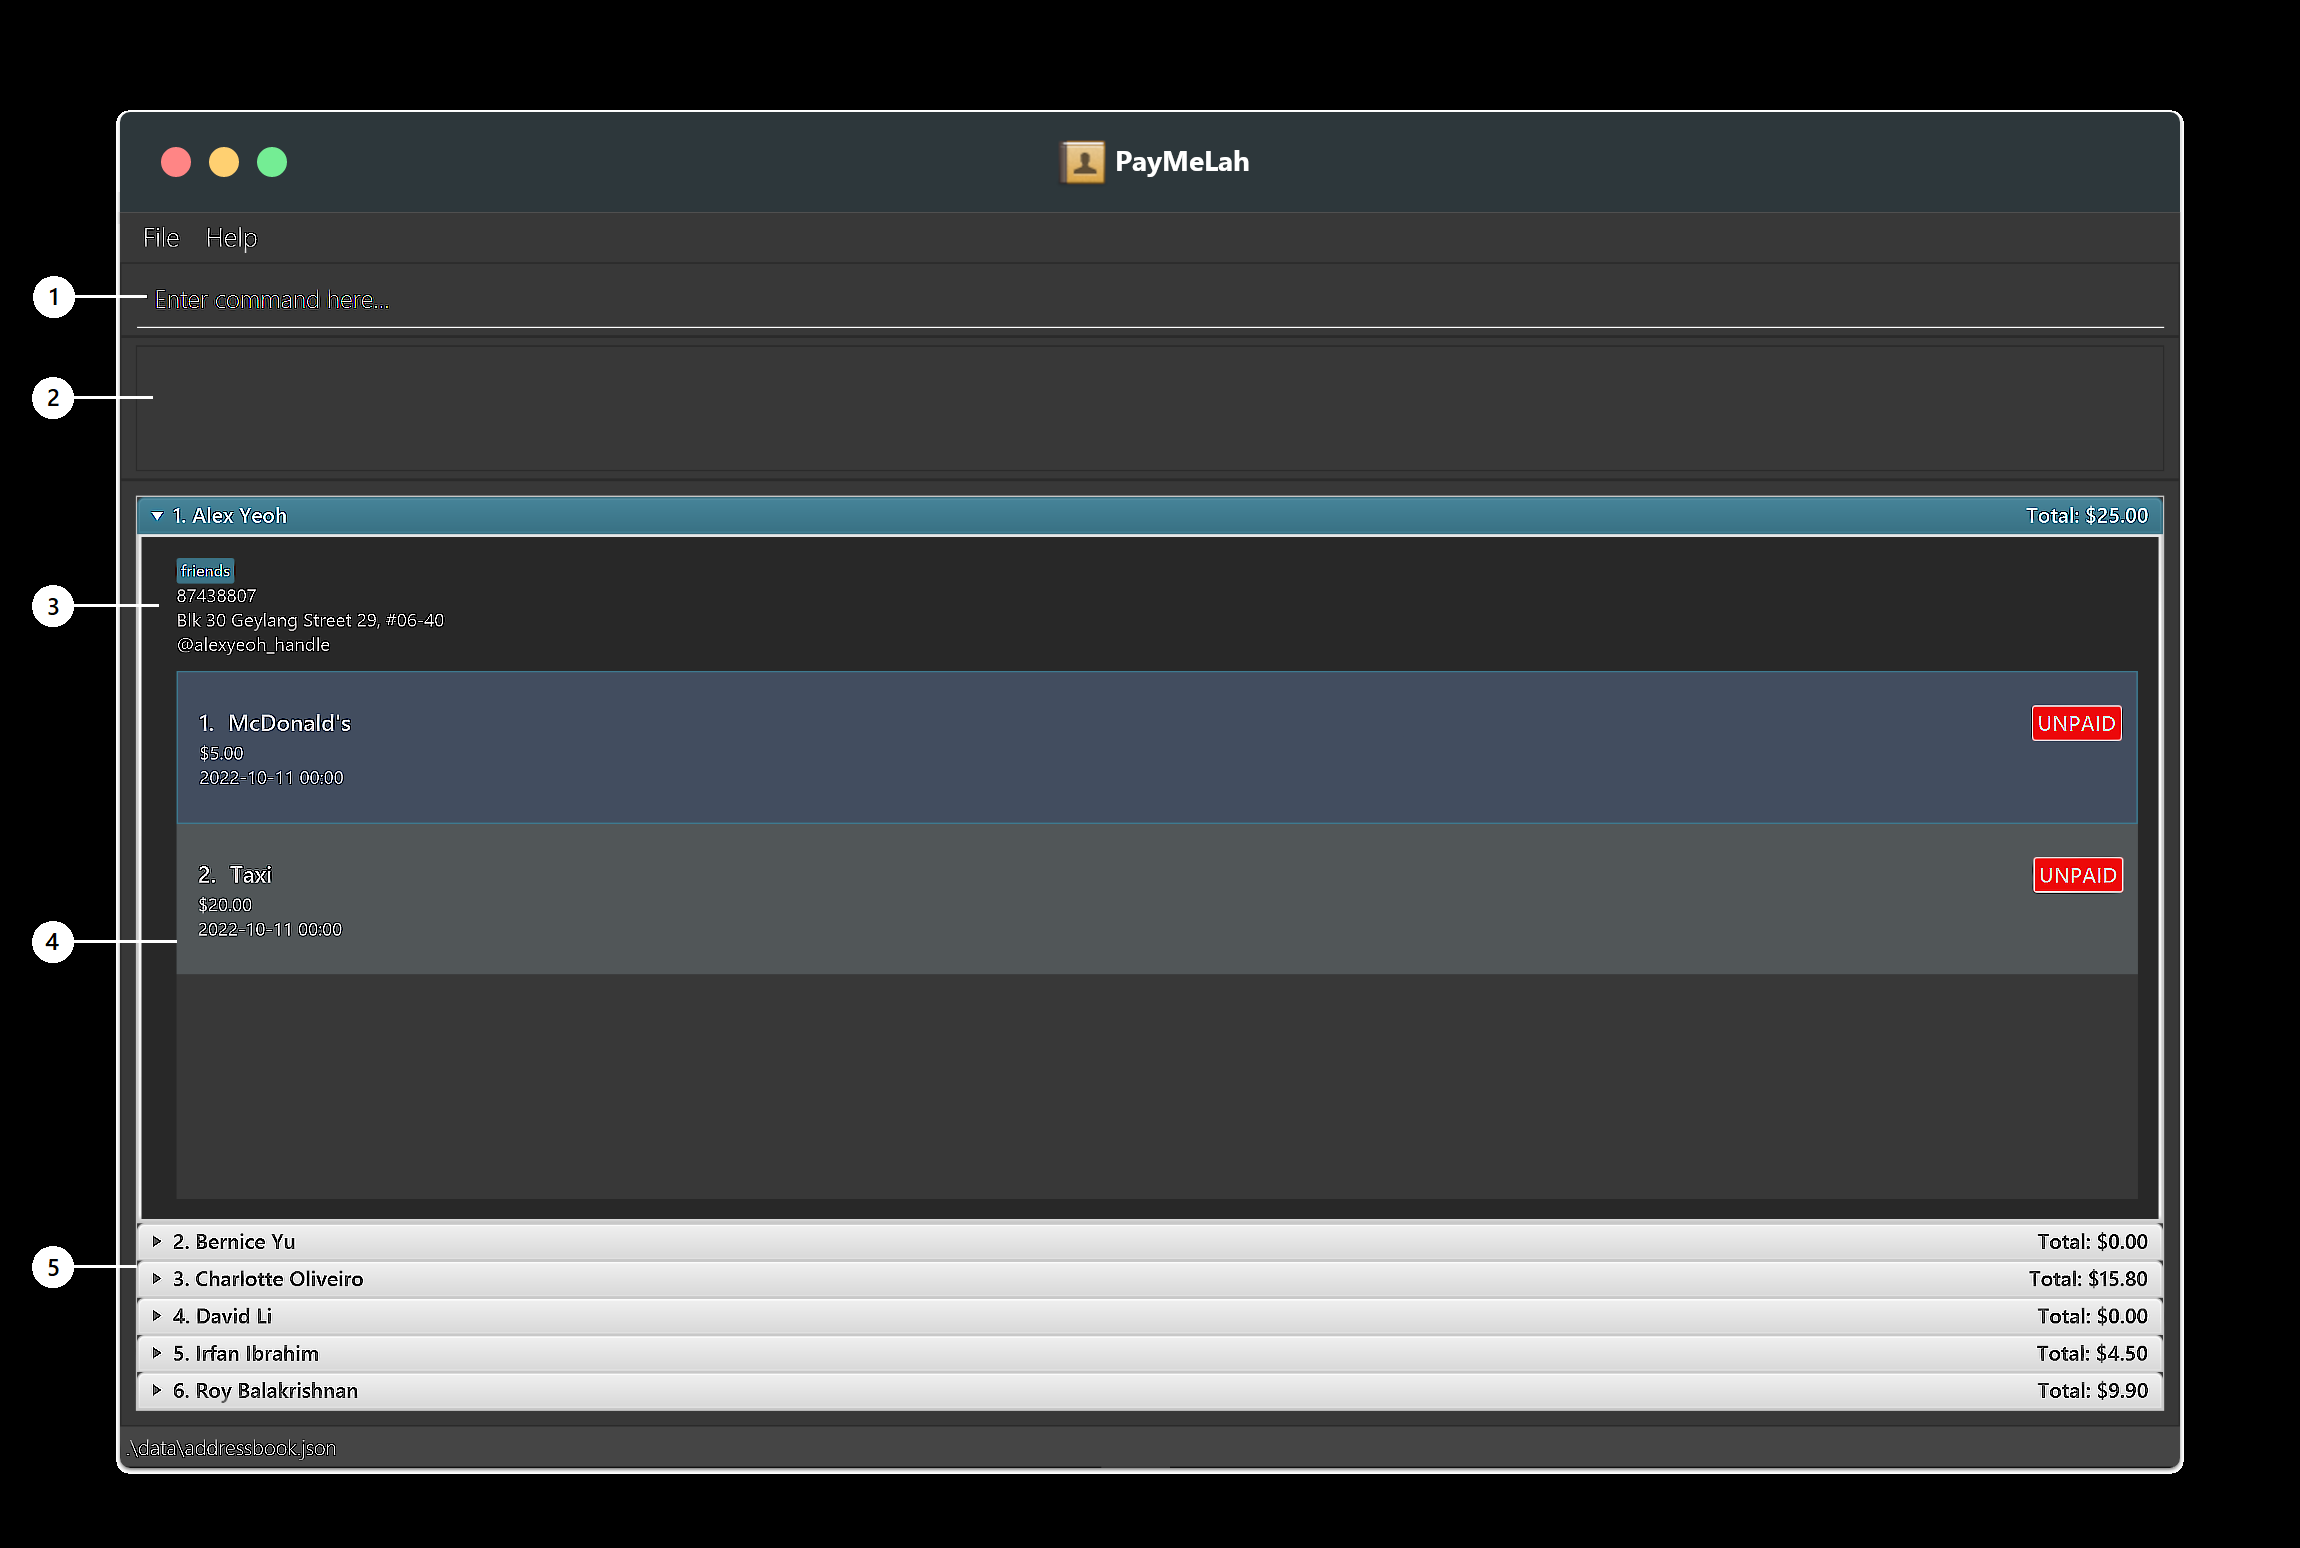
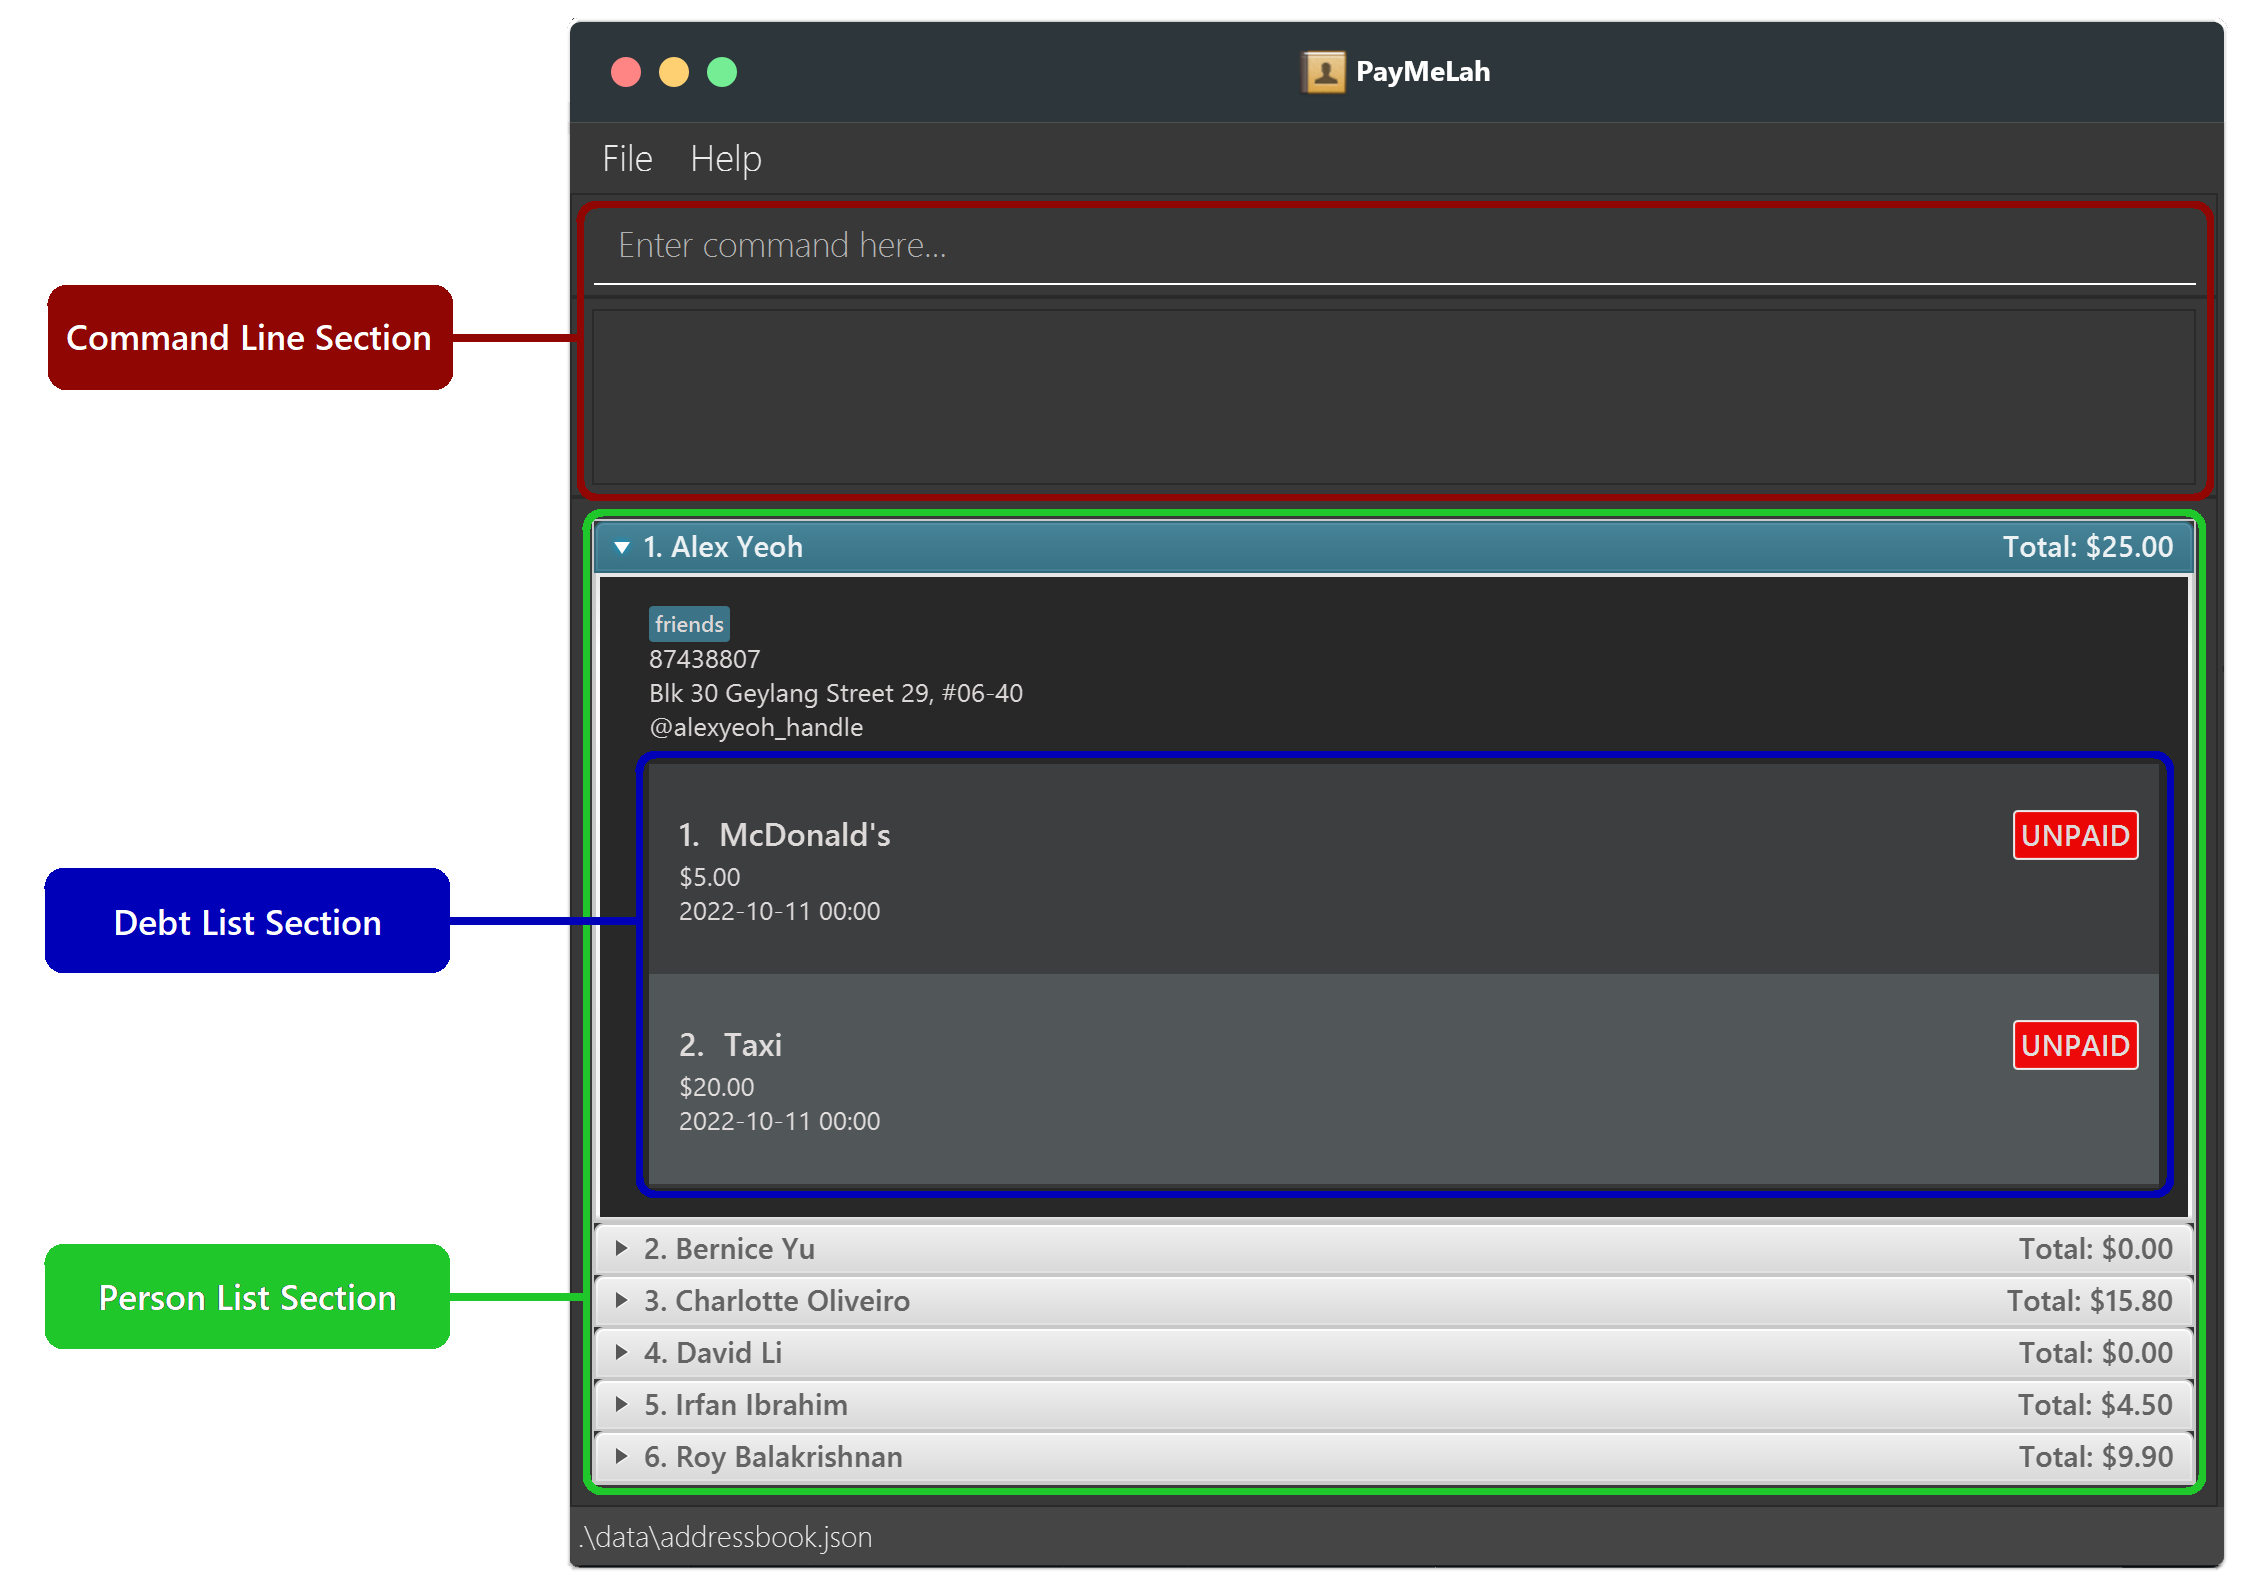
Update images

diff --git a/docs/UserGuide.md b/docs/UserGuide.md
@@ -76,6 +76,8 @@ Finally, here are some of the symbols and text formatting to look out for as you
 
 <div style="page-break-after: always;"></div>
 
+<img src="images/UiDetails.png" width="800" /> <br>
+
 | Number | Component Name | Details                                                                                                                                               |
 |:------:|----------------|-------------------------------------------------------------------------------------------------------------------------------------------------------|
 |   1.   | Command Box    | The box where you enter commands for PayMeLah to carry out.                                                                                           |
@@ -84,9 +86,13 @@ Finally, here are some of the symbols and text formatting to look out for as you
 |   4.   | Debt List      | The box containing the list of debts owed by a person.                                                                                                |
 |   5.   | Person List    | The box containing the full list of person cards. Only one person card can be viewed at a time.                                                       |
 
-<img src="images/UiDetails.png" width="800" /> <br>
+<div style="page-break-after: always;"></div>
+
+<img src="images/CommandLineSection.png" width="800" /> <br>
 
 <div style="page-break-after: always;"></div>
+
+<img src="images/PersonCard.png" width="800" /> <br>
 
 | Number | Component Name  | Details                                       |
 |:------:|-----------------|-----------------------------------------------|
@@ -98,7 +104,6 @@ Finally, here are some of the symbols and text formatting to look out for as you
 |   6.   | Address         | The person’s address.                         |
 |   7.   | Total Debt      | The total amount of money owed by the person. |
 
-<img src="images/PersonCard.png" width="800" /> <br>
 <div style="page-break-after: always;"></div>
 
 | Number | Component Name | Details                                     |
